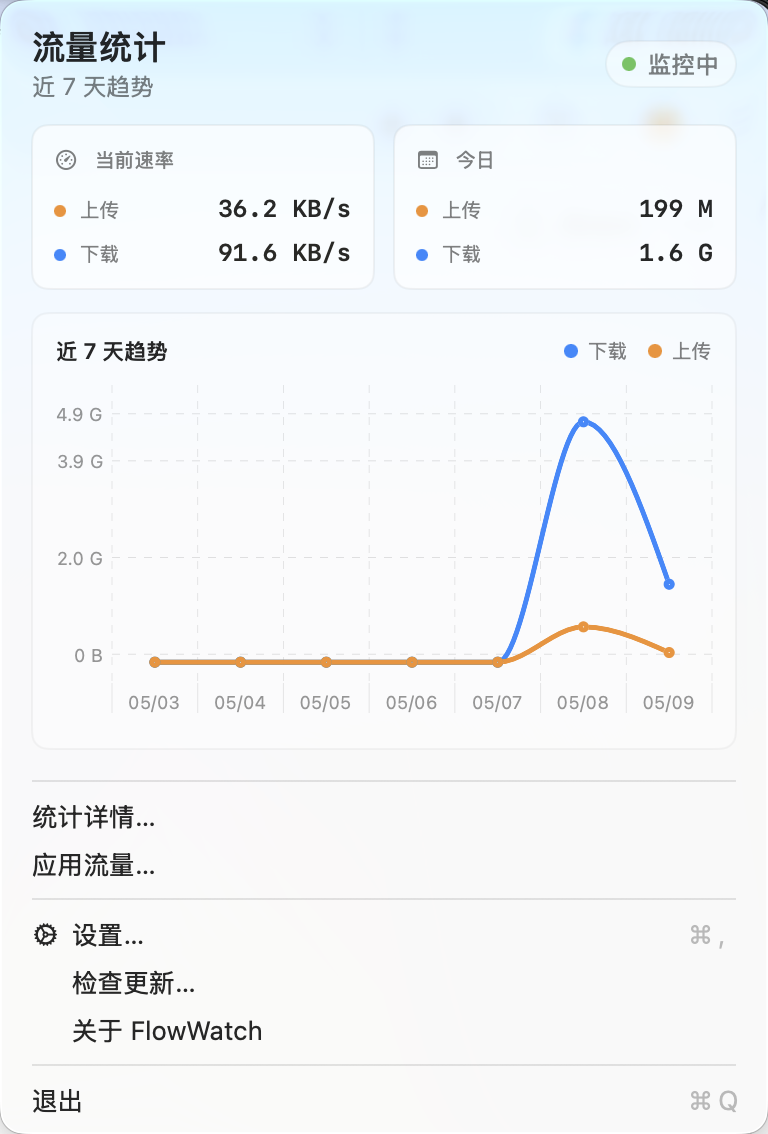
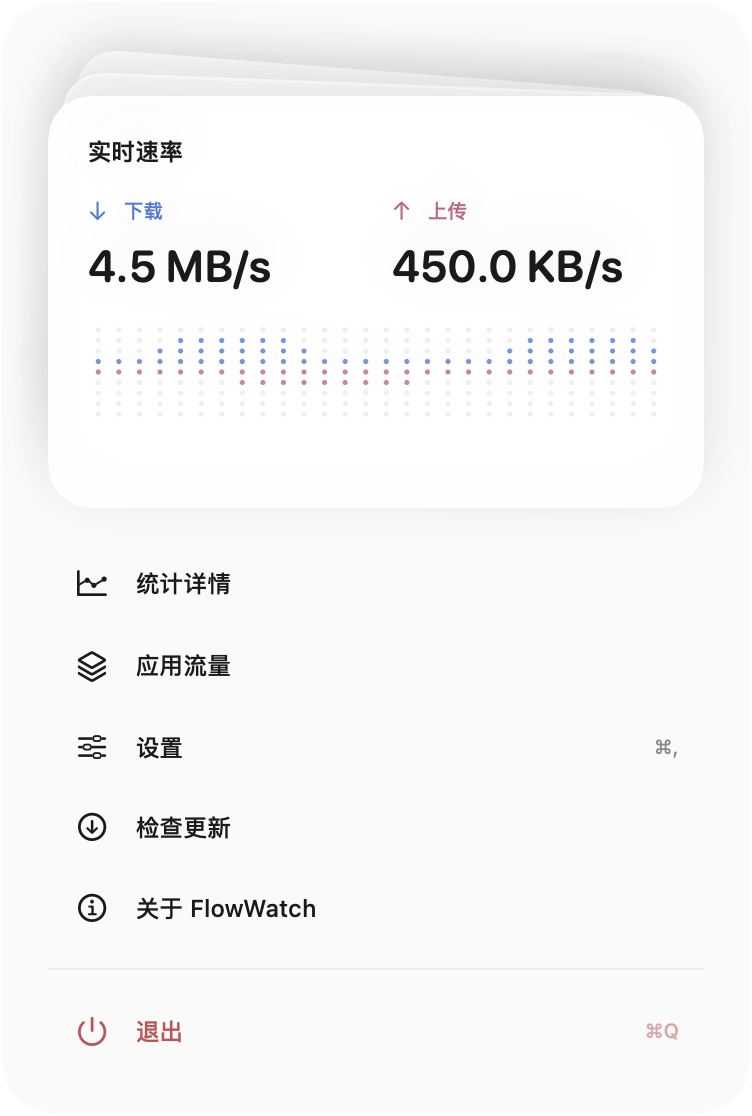
更新 v3 文档与中英文界面截图

diff --git a/README.en.md b/README.en.md
@@ -1,59 +1,84 @@
 <div align="center">
   <img src=".github/assets/app-icon.png" width="96" height="96" alt="FlowWatch" />
   <h1>FlowWatch</h1>
-  <p>Lightweight macOS menu bar network monitor: live speed, traffic stats, and trends.</p>
+  <p>A macOS menu bar network monitor for live speed, traffic history, and app usage.</p>
 </div>
 
 [简体中文](README.md) | English
 
-> 🖥 Windows version: [FlowWatch-Win](https://github.com/W1tFzQq08pTv/FlowWatch-Win)
+> Windows version: [FlowWatch-Win](https://github.com/W1tFzQq08pTv/FlowWatch-Win)
 
-## Features
-- Real-time upload/download speed in the menu bar
-- Menu popup with current speed, today's total, and a 7-day trend chart (Charts, macOS 13+)
-- Dedicated statistics details window with overview, trends, and fun stats sections
-- Per-app traffic monitoring with date range filters and sorting
-- Custom sampling interval and display style
-- Automatic checks and background downloads from GitHub Releases, always asking before install or relaunch, with reminders, install-on-quit, and ordinary-version skipping
-- Optional file logging (daily logs, kept for 7 days)
+## v3: A new card interface
 
-## Data & Privacy
-- Traffic stats are calculated locally from system network interface counters; no packet content is captured.
-- Settings and daily totals are stored on your device only (UserDefaults).
-- Logs (if enabled) are written locally and never uploaded or synced.
-- No account is required, and the app does not upload or sync your data.
+Check speed in the menu bar, open the cards for a quick summary, and explore the details when you need more context. v3 brings a consistent interface to the quick panel, statistics, app usage, and settings, with light and dark appearances and Chinese and English support.
 
-## Statistics Details
-The statistics details window keeps the main popup focused while providing a fuller view of historical traffic.
+- **Composable menu bar**: Enable and reorder traffic text, curve animation, and signal components. Choose speed, today's totals, or both; adjust direction order and horizontal or stacked layouts.
+- **Three quick cards**: Live speed, today's traffic, and a seven-day summary. Click or swipe horizontally between cards, with direct access to statistics, app usage, and settings.
+- **Traffic history**: Five sections cover live monitoring, overview, charts, trends, and fun statistics. Explore 7/30/90-day ranges, switch between lines and stacked bars, and inspect direction shares and weekday patterns.
+- **App and process usage**: Enable app monitoring to explore today, the last seven or thirty days, or all history. Filter apps and system processes, sort usage, and compare composition rings with historical trends.
+- **Consistent charts**: Blue for downloads, rose for uploads, lighter rings, subtle grids, and clear values. Nonnegative traffic curves stay at or above the zero baseline; averages and tooltips remain readable.
+- **Your preferences**: Set separate sampling intervals for network and app monitoring, colors, language, launch at login, and logging. Supported interactions respect the system's Reduce Motion preference.
 
-- Overview: total download, total upload, total traffic, recorded days, and active days
-- Trends: 7-day total, 7-day daily average, historical daily average, today vs yesterday, and peak day
-- Fun stats: traffic title, upload/download ratio, download share, most active date, and latest active day
+## Interface preview
 
-## Install
+Screenshots are captured from the v3 interface using demonstration traffic and app usage data.
+
+### Menu bar quick panel
+
+<img src=".github/assets/popup-en.png" width="376" alt="FlowWatch v3 stacked cards and quick actions" />
+
+### Live monitoring and historical charts
+
+| Live monitoring | Traffic charts |
+| --- | --- |
+| <img src=".github/assets/statistics-en.png" width="520" alt="Live speeds, recent rate curves, and a seven-day traffic trend" /> | <img src=".github/assets/charts-en.png" width="520" alt="Thirty-day trends, direction shares, and weekday traffic bars" /> |
+
+### App usage and component settings
+
+| App usage | Menu bar components |
+| --- | --- |
+| <img src=".github/assets/perapp-traffic-en.png" width="520" alt="App traffic shares, historical trends, and usage list" /> | <img src=".github/assets/settings-en.png" width="520" alt="Menu bar component switches, ordering, content, and layout" /> |
+
+## Install and update
+
+Requires **macOS 13 or later**. FlowWatch lives in the menu bar and does not show a Dock icon by default.
+
 ### Homebrew
+
 ```bash
 brew tap w1tfzqq08ptv/flowwatch
 brew install --cask flowwatch
 ```
 
-After installation through Homebrew Cask, subsequent versions are still delivered by FlowWatch's built-in updater from GitHub Releases; the app does not run or copy `brew upgrade` commands.
+### Download the DMG
 
-For an important update, create an annotated tag whose tag message is exactly `sparkle:critical`. The release workflow adds critical-update metadata to the appcast; clients cannot skip that version, but may still install it later.
+Download `FlowWatch.dmg` from [GitHub Releases](https://github.com/W1tFzQq08pTv/FlowWatch/releases/latest), open it, and drag the app into Applications.
 
-### Download from Releases
-Download the latest DMG from GitHub Releases:
-[FlowWatch Releases](https://github.com/W1tFzQq08pTv/FlowWatch/releases)
+### Built-in updates
 
-## Screenshots
-| Status bar: speed | Status bar: today | Status bar: speed + today |
-| --- | --- | --- |
-| <img src=".github/assets/statusbar-speed.png" width="260" alt="Status bar speed" /> | <img src=".github/assets/statusbar-today.png" width="260" alt="Status bar today" /> | <img src=".github/assets/statusbar-speed-today.png" width="260" alt="Status bar speed and today" /> |
+FlowWatch checks GitHub Releases and downloads updates in the background, asking before installation and relaunch. Reminders, install-on-quit, and skipping ordinary versions are supported. The built-in updater also works after installation through Homebrew.
 
-| Menu Popup | Statistics Details |
-| --- | --- |
-| <img src=".github/assets/popup-en.png" width="360" alt="Menu Popup" /> | <img src=".github/assets/statistics-en.png" width="520" alt="Statistics Details" /> |
+## Data and privacy
 
-| Per-App Traffic | Settings |
-| --- | --- |
-| <img src=".github/assets/perapp-traffic-en.png" width="520" alt="Per-App Traffic" /> | <img src=".github/assets/settings-en.png" width="520" alt="Settings" /> |
+- Network speed and daily totals come from system interface byte counters. Optional app monitoring uses the system's `nettop` data; it does not read packet content.
+- Preferences stay in local UserDefaults. Daily and app history are stored as JSON files in `~/Library/Application Support/FlowWatch/`.
+- Logging can be disabled in settings. When enabled, logs stay local, rotate daily, and are retained for seven days.
+- No account is required. Traffic statistics are never uploaded or synced; update checks and downloads connect to GitHub.
+- Interface totals and app usage use different sampling and accounting methods and may differ. The app list primarily shows usage over external hardware network interfaces.
+
+## Build from source
+
+CI uses Xcode 26.6; the same or a newer version is recommended. Open `FlowWatch.xcodeproj`, select the `FlowWatch` scheme, and run, or use:
+
+```bash
+xcodebuild -project FlowWatch.xcodeproj -scheme FlowWatch \
+  -configuration Debug -destination 'platform=macOS' build
+```
+
+See the [developer notes](FlowWatch/README.md) for source structure and build details.
+
+## Releases
+
+Pushing a `vX.Y.Z` tag triggers the Release workflow. It injects the version, builds the app, creates a DMG, ZIP, and signed Sparkle appcast, then publishes them to GitHub Releases. Signing, notarization, and Homebrew tap updates run when the required credentials are configured.
+
+For a release that must not be skipped, use an annotated tag with `sparkle:critical` on its own line in the tag message. Users can still choose to install it later. A major version bump alone does not require this marker.

diff --git a/README.md b/README.md
@@ -1,60 +1,84 @@
 <div align="center">
   <img src=".github/assets/app-icon.png" width="96" height="96" alt="FlowWatch" />
   <h1>FlowWatch</h1>
-  <p>轻量级 macOS 菜单栏网速监控工具：实时速率、流量统计与趋势图。</p>
+  <p>macOS 菜单栏网速与流量监控，让实时速率、历史走势和应用用量一目了然。</p>
 </div>
 
 简体中文 | [English](README.en.md)
 
-> 🖥 Windows 版本：[FlowWatch-Win](https://github.com/W1tFzQq08pTv/FlowWatch-Win)
+> Windows 版本：[FlowWatch-Win](https://github.com/W1tFzQq08pTv/FlowWatch-Win)
 
-## 功能
-- 菜单栏实时显示上行/下行速率
-- 下拉主面板展示当前速率、今日累计与近 7 天趋势图（Charts，macOS 13+）
-- 独立统计详情窗口：总览、趋势、趣味统计分区展示
-- 应用流量监控：按应用统计网络流量，支持日期范围筛选与排序
-- 自定义采样间隔与显示样式
-- 通过 GitHub Releases 自动检查并后台下载更新，安装和重启前始终询问，并支持稍后提醒、退出时安装和跳过普通版本
-- 可选日志输出（按天保存，保留 7 天）
+## v3：全新的卡片界面
 
-## 数据与隐私
-- 流量统计仅在本地基于系统网卡计数器计算，不采集任何包内容。
-- 设置项与每日流量仅保存在本机（UserDefaults）。
-- 日志（如开启）仅写入本地文件，不会上传或同步。
-- 无需账号，应用不会上传或同步你的数据。
+菜单栏随时看速率，点开卡片回顾流量，再进入详情了解变化。v3 统一了快捷面板、统计、应用流量和设置的视觉与交互，支持浅色、深色及中英文界面。
 
-## 统计详情
-统计详情窗口用于承接主面板之外的更多历史数据分析，保持主面板简洁的同时，提供更完整的流量回顾。
+- **可组合的菜单栏**：独立开关、排序流量文字、曲线动画与信号组件；选择速率、今日累计或同时显示，调整上下行顺序与横向/上下布局。
+- **三张快捷卡片**：实时速率、今日流量、近 7 天汇总。点击或横向拖动卡片切换，直接进入统计、应用流量和设置。
+- **完整的流量回顾**：实时监控、总览、图表、趋势和趣味统计五个分区。图表支持 7/30/90 天范围、趋势线与堆叠柱切换，并展示流向占比和周内节奏。
+- **应用与进程用量**：启用应用监控后，查看今日、近 7 天、近 30 天或全部历史，按应用/系统进程筛选及排序；占比环和历史趋势帮助定位主要用量来源。
+- **统一的图表语言**：下载蓝、上传玫红，轻量环形图、弱网格和清晰的数值层级；非负流量曲线不会下穿零轴，均值标注与提示框独立显示。
+- **按需调整**：分别设置网速与应用监控采样间隔、配色、语言、开机启动和日志。减少动态效果时，支持的交互动画会随系统设置收敛。
 
-- 总览：总下载、总上传、总流量、记录天数、活跃天数
-- 趋势：近 7 天总量、近 7 天日均、历史日均、今日较昨日、峰值日期
-- 趣味统计：流量称号、上传/下载系数、下载占比、最活跃日期、最近活跃日
+## 界面预览
 
-## 安装
+以下截图由 v3 界面运行生成，流量数值及应用用量为演示数据。
+
+### 菜单栏快捷面板
+
+<img src=".github/assets/popup.png" width="376" alt="FlowWatch v3 三张堆叠卡片与快捷入口" />
+
+### 实时监控与历史图表
+
+| 实时监控 | 流量图表 |
+| --- | --- |
+| <img src=".github/assets/statistics.png" width="520" alt="实时速率、最近速率曲线与近 7 天趋势" /> | <img src=".github/assets/charts.png" width="520" alt="30 天趋势、流向占比环与周内流量柱状图" /> |
+
+### 应用流量与组件设置
+
+| 应用流量 | 菜单栏组件设置 |
+| --- | --- |
+| <img src=".github/assets/perapp-traffic.png" width="520" alt="按应用查看流量占比、历史趋势与用量列表" /> | <img src=".github/assets/settings.png" width="520" alt="菜单栏组件开关、排序、显示内容与布局设置" /> |
+
+## 安装与更新
+
+需要 **macOS 13 或更高版本**。FlowWatch 常驻菜单栏，默认不显示 Dock 图标。
+
 ### Homebrew
+
 ```bash
 brew tap w1tfzqq08ptv/flowwatch
 brew install --cask flowwatch
 ```
 
-通过 Homebrew Cask 安装后，后续版本也由 FlowWatch 内置更新器从 GitHub Releases 获取，无需在 App 内执行或复制 `brew upgrade` 命令。
+### 下载 DMG
 
-发布重要更新时，请创建附注标签，并将标签说明单独写为 `sparkle:critical`。发布工作流会将重要更新标记写入 appcast；客户端不能跳过该版本，但仍可选择稍后安装。
+从 [GitHub Releases](https://github.com/W1tFzQq08pTv/FlowWatch/releases/latest) 下载 `FlowWatch.dmg`，打开后将应用拖入 Applications。
 
-### 从发布页下载
-前往 GitHub Releases 下载最新的 DMG：
-[FlowWatch Releases](https://github.com/W1tFzQq08pTv/FlowWatch/releases)
+### 内置更新
 
+应用从 GitHub Releases 检查并后台下载更新，安装和重新启动前会询问。支持稍后提醒、退出时安装和跳过普通版本。通过 Homebrew 安装后，也可以使用内置更新器获取后续版本。
 
-## 截图
-| 状态栏：速率 | 状态栏：今日统计 | 状态栏：速率 + 今日统计 |
-| --- | --- | --- |
-| <img src=".github/assets/statusbar-speed.png" width="260" alt="Status bar speed" /> | <img src=".github/assets/statusbar-today.png" width="260" alt="Status bar today" /> | <img src=".github/assets/statusbar-speed-today.png" width="260" alt="Status bar speed and today" /> |
+## 数据与隐私
 
-| 主面板 | 统计详情 |
-| --- | --- |
-| <img src=".github/assets/popup.png" width="360" alt="主面板" /> | <img src=".github/assets/statistics.png" width="520" alt="统计详情" /> |
+- 网速与每日总量来自系统网卡字节计数；可选的应用监控使用系统 `nettop` 数据，不读取网络包内容。
+- 偏好设置保存在本机 UserDefaults；每日及应用历史以 JSON 文件保存在 `~/Library/Application Support/FlowWatch/`。
+- 日志可在设置中关闭；启用时仅写入本地，按天保存并保留 7 天。
+- 无需账号，不上传或同步流量统计。检查更新与下载更新时会访问 GitHub。
+- 网卡总量与应用用量采用不同的采样和归类方式，数值不保证完全相等；应用列表主要展示外部硬件网络接口上的用量。
 
-| 应用流量 | 设置 |
-| --- | --- |
-| <img src=".github/assets/perapp-traffic.png" width="520" alt="应用流量" /> | <img src=".github/assets/settings.png" width="520" alt="设置" /> |
+## 从源码构建
+
+CI 使用 Xcode 26.6；建议使用相同或更新版本。打开 `FlowWatch.xcodeproj`，选择 `FlowWatch` scheme 运行，或执行：
+
+```bash
+xcodebuild -project FlowWatch.xcodeproj -scheme FlowWatch \
+  -configuration Debug -destination 'platform=macOS' build
+```
+
+源码结构及构建说明见 [开发说明](FlowWatch/README.md)。
+
+## 发布说明
+
+推送 `vX.Y.Z` 标签会触发 Release 工作流，自动注入版本号、构建并生成 DMG、ZIP 与签名的 Sparkle appcast，然后发布到 GitHub Releases。若已配置相应凭据，还会完成签名、公证和 Homebrew tap 更新。
+
+必须作为不可跳过更新发布时，使用附注标签，并在标签说明中单独写一行 `sparkle:critical`；客户端仍可选择稍后安装。主版本升级本身不要求这个标记。

diff --git a/FlowWatch/README.md b/FlowWatch/README.md
@@ -1,36 +1,50 @@
-# FlowWatch
+# FlowWatch 开发说明
 
-轻量级 macOS 菜单栏网速监控工具。实时展示上下行速率，支持自定义采样间隔和色阶提示。
-
-## 功能特点
-- 菜单栏常驻，显示「上行/下行」速率，可在图标与精简速率两种模式间切换。
-- 速率以 B/KB/MB/GB 每秒显示，按照速率区间动态渐变配色，便于快速分辨流量高低。
-- 主界面可一键暂停/恢复监控，并通过滑杆调整采样间隔（1–10 秒）。
-- 退出入口在菜单栏「完全退出」或主界面按钮。
-
-## 工作原理
-1. **定时采样**：`NetworkUsageMonitor` 使用 `DispatchSourceTimer` 以 `sampleInterval`（默认 1s）周期采样。
-2. **读取网卡字节数**：调用 `getifaddrs` 遍历所有网络接口，过滤掉回环接口，将活跃接口的 `if_data.ifi_ibytes` 与 `if_data.ifi_obytes` 累加得到当前总接收/发送字节数。
-3. **速率计算**：将本次总量与上次采样总量做差，得到区间增量（即瞬时速率，单位 B/s），更新 `downloadBps` / `uploadBps`。
-4. **UI 更新**：`StatusBarController` 和 `MenuStatusLabel` 订阅上述 Published 属性，生成彩色文本/图标；`ContentView` 展示主界面并提供控制项。
-
-## 目录速览
-- `FlowWatchApp.swift`：应用入口，设为 accessory 模式并创建全局监控器与状态栏控制器。
-- `NetworkUsageMonitor.swift`：核心采样与速率计算逻辑，支持暂停与采样间隔更新。
-- `StatusBarController.swift`：托管状态栏菜单项与图标渲染，速率越高颜色越偏红。
-- `MenuStatusLabel.swift`：菜单中的速率小组件，依据存储的显示模式切换样式。
-- `ContentView.swift`：主界面，包含采样间隔调整、监控开关与退出按钮。
+FlowWatch 是 macOS 13+ 的菜单栏网速与流量监控应用，使用 SwiftUI、AppKit 和 Charts。功能、截图和安装方式见[项目 README](../README.md)。
 
 ## 构建与运行
-1. 环境：macOS（Apple Silicon/Intel 均可），建议使用 Xcode 15+。
-2. 打开项目：用 Xcode 打开本目录（或导入上述源文件到同名 SwiftUI macOS App 工程）。
-3. Scheme 选择 `FlowWatch`，目标运行在本机。
-4. 运行后应用常驻菜单栏，点击图标可唤起界面/菜单，调整采样或退出。
+
+CI 使用 Xcode 26.6，建议使用相同或更新版本。打开仓库根目录的 `FlowWatch.xcodeproj`，选择 `FlowWatch` scheme 运行：
+
+```bash
+xcodebuild -project FlowWatch.xcodeproj -scheme FlowWatch \
+  -configuration Debug -destination 'platform=macOS' build
+```
+
+应用默认使用 accessory 模式，不显示 Dock 图标；从菜单栏打开快捷卡片、统计、应用流量和设置。当前未提交自动化测试目标。
+
+## 源码结构
+
+| 文件 | 职责 |
+| --- | --- |
+| `FlowWatchApp.swift` / `AppDelegate.swift` | 应用入口与监控器生命周期 |
+| `NetworkUsageMonitor.swift` | 网卡计数采样、速率与每日总量，支持 1/2/3/5 秒采样间隔 |
+| `ProcessNetworkMonitor.swift` / `NettopTrafficAccounting.swift` | 可选的应用与进程采样、连接增量及接口范围归类 |
+| `DailyTrafficStorage.swift` / `ProcessTrafficStorage.swift` | 每日与应用历史的 JSON 持久化 |
+| `StatusBarController.swift` / `StatusBarLayout.swift` | 菜单栏绘制、组件组合和快捷面板入口 |
+| `FlowWatchQuickPanelView.swift` | 实时、今日与近 7 天三张快捷卡片 |
+| `TrafficStatisticsDetailWindow.swift` / `TrafficStatisticsCharts.swift` | 统计分区、历史趋势与流量构成 |
+| `PerAppTrafficDetailWindow.swift` / `PerAppTrafficSummaryCharts.swift` | 应用用量、筛选、排序和历史图表 |
+| `FlowWatchRingChart.swift` / `FlowWatchChartStyle.swift` | 共享环形几何、图表样式和绘图区边界 |
+| `SettingsView.swift` / `ModernControls.swift` | 设置页与共享卡片控件 |
+| `UpdateManager.swift` / `UpdateDownloadCache.swift` | Sparkle 更新状态与下载缓存 |
+
+界面文案位于 `Resources/zh-Hans.lproj/` 和 `Resources/en.lproj/`。修改文案时同步维护两种语言。实现 `Equatable` 的视图若包含 `@Environment`，显式比较外部输入，避免依赖新版 SDK 的自动合成行为。
+
+## 数据与统计范围
+
+- 网卡总量基于 `getifaddrs` 的字节计数计算，不读取网络包内容。
+- 应用监控使用系统 `nettop` 数据，按接口归类；当前应用列表主要展示外部硬件接口的用量。
+- 网卡与应用统计的采样及归类方式不同，不应假设两者数值完全相等。
+- 偏好设置使用 UserDefaults；历史与日志保存在 `~/Library/Application Support/FlowWatch/`。不要用演示数据覆盖用户历史。
 
 ## 发布与打包
-- 见 `../docs/RELEASING.md`
 
-## 限制与注意
-- 当前速率为所有非回环接口的总和，未按接口或进程拆分。
-- 数据基于系统网卡累计字节，不做历史持久化；切换采样间隔会重启计时器但不清零累积。
-- 速率阈值与配色为内置经验值，如需自定义可在对应 Swift 文件内调整。
+根目录 `.github/workflows/release.yml` 响应 `v*` 标签。工作流从标签注入应用版本号，并使用 Actions 运行号作为构建号，生成 `FlowWatch.dmg`、`FlowWatch.zip` 和签名的 `appcast.xml`。
+
+- `scripts/release_build.sh`：配置证书时的构建打包入口。
+- `scripts/release_build_unsigned.sh`：未配置证书时的构建打包入口。
+- `scripts/notarize.sh`：具备相应凭据时公证并装订产物。
+- Sparkle 私钥用于生成签名的 appcast，是发布所必需的配置；Homebrew tap 凭据可选。
+
+大版本更新使用常规版本标签即可。只有需要禁止跳过的更新才在附注标签说明中单独加入 `sparkle:critical`。
